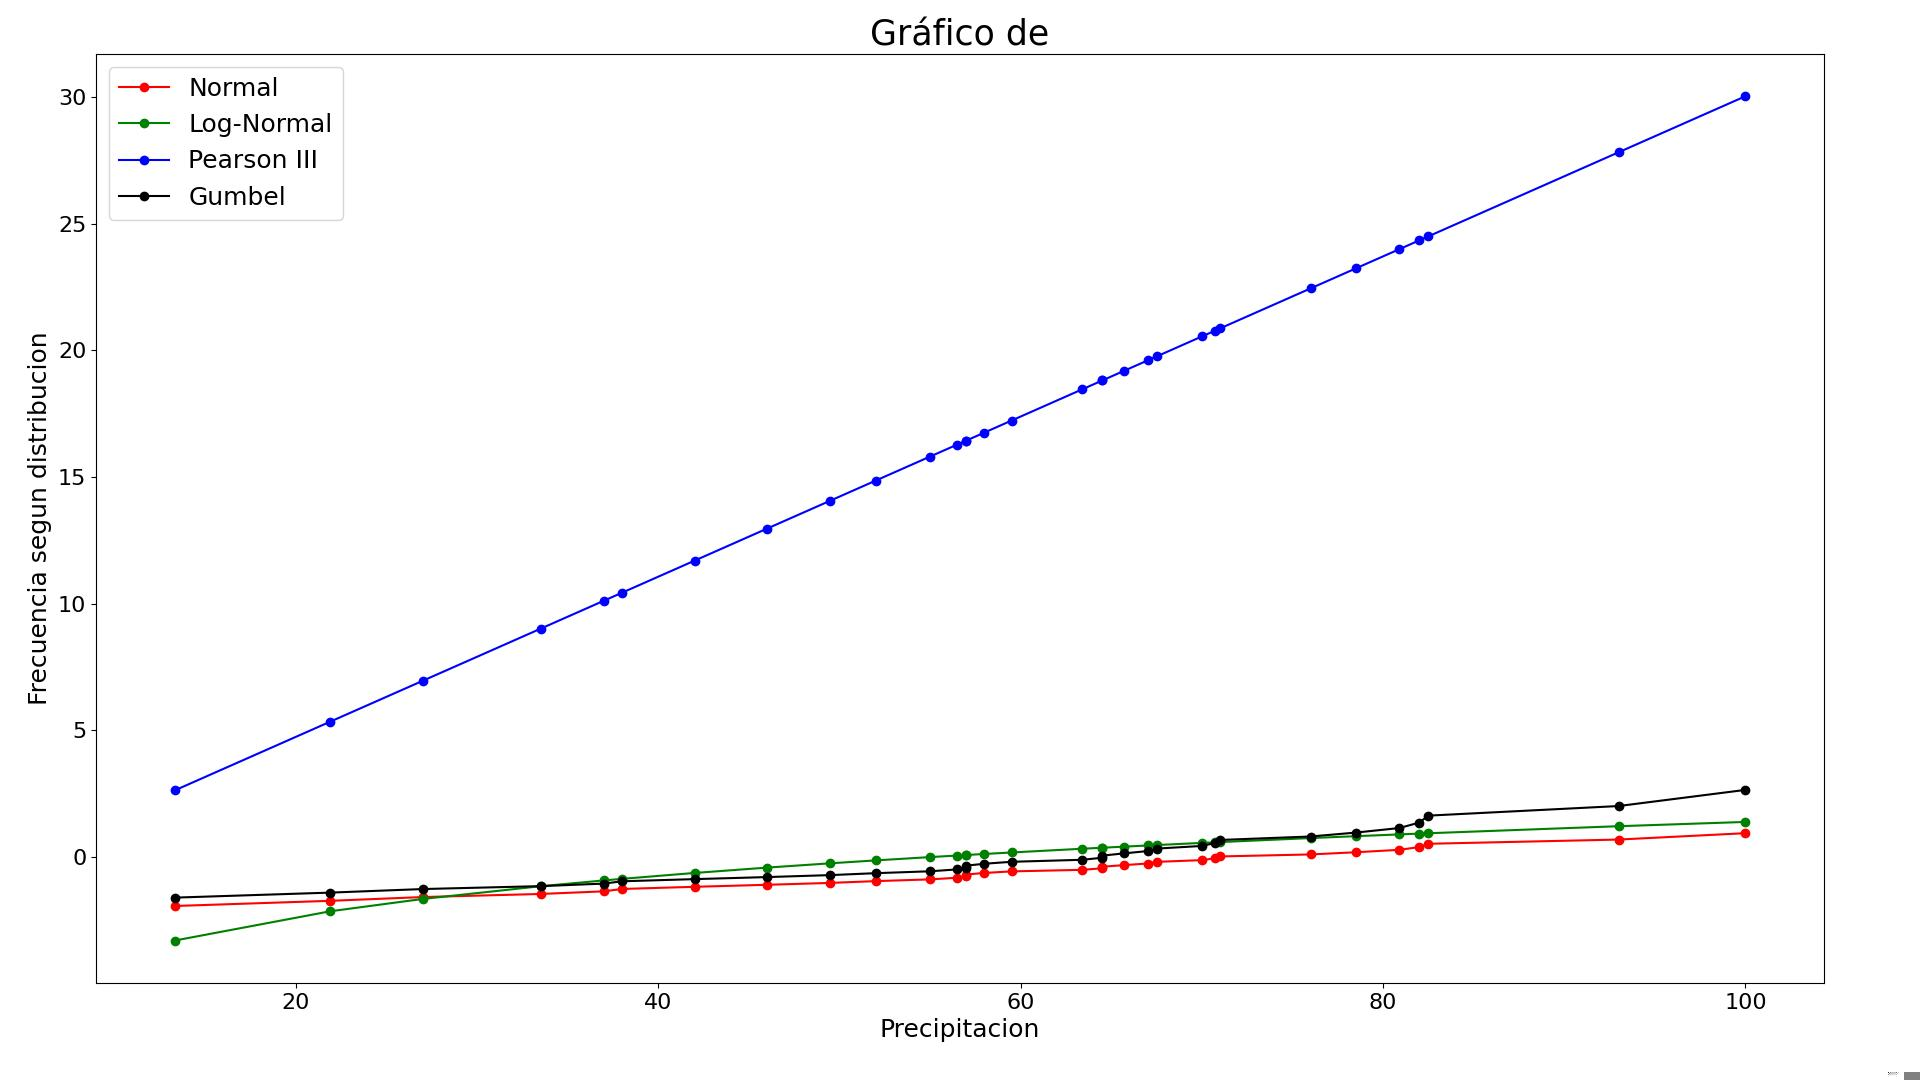
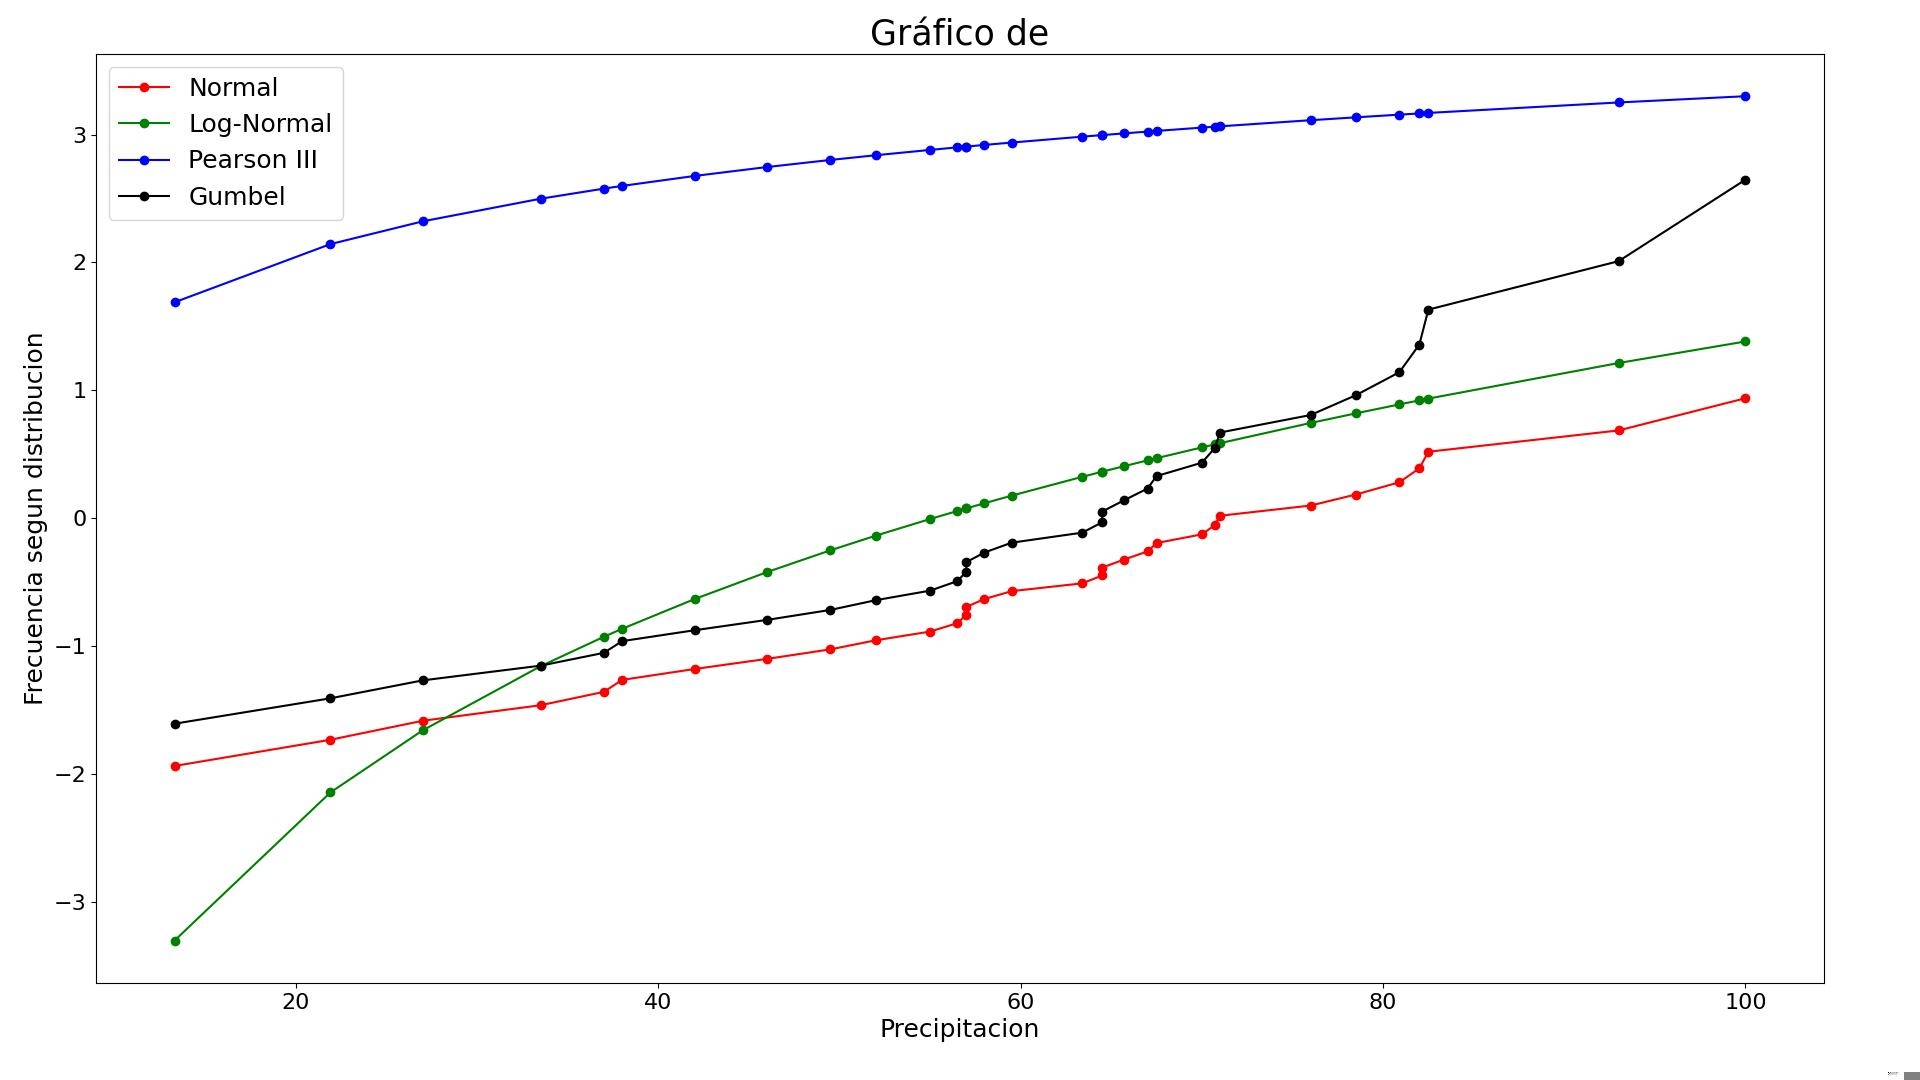
avance

diff --git a/CODIGO/PREGUNTA_2/B/kt_segun_distribucion.py b/CODIGO/PREGUNTA_2/B/kt_segun_distribucion.py
@@ -1,10 +1,14 @@
 from probabilidad_exc import df_probabilidad_exc
 import numpy as np
 
+
 #Para distribucion Normal
-media = df_probabilidad_exc['ACCESS1-0 [r1i1p1]'].mean()
-desviacion_std = df_probabilidad_exc['ACCESS1-0 [r1i1p1]'].std()
-df_probabilidad_exc['Kt Normal'] = (df_probabilidad_exc['ACCESS1-0 [r1i1p1]'] - media) / desviacion_std
+#primero debo calcular w
+w = (np.log(1/(df_probabilidad_exc['Probabilidad_Excedencia']/100)))**0.5
+#Ahora calculo el valor de z
+z = w - (2.515517 + 0.802853*w + 0.010328 * (w**2))/(1 + 1.432788 * w + 0.189269 * (w**2) + 0.001308 * (w**3))
+#Luego simplemente kt es igual a z
+df_probabilidad_exc['Kt Normal'] = z
 
 #para distribucion Log-Normal
 df_probabilidad_exc['Log de Precipitación'] = np.log(df_probabilidad_exc['ACCESS1-0 [r1i1p1]'])
@@ -15,23 +19,34 @@ df_probabilidad_exc.drop('Log de Precipitación', axis=1, inplace=True)
 
 #Para una dsitribucion Person III
 # Parámetros estimados de la distribución gamma
-alpha = 2.5  # Parámetro de forma (similares a los de una Pearson Type II)
-beta = 2     # Parámetro de escala
 
-# Calcular la media y la desviación estándar de la distribución gamma
-media = alpha * beta
-desviacion_std = np.sqrt(alpha * beta**2)
-df_probabilidad_exc['Kt Pearson III'] = (df_probabilidad_exc['ACCESS1-0 [r1i1p1]'] - media) / desviacion_std
+df_probabilidad_exc['W Pearson'] = (np.log(1/(df_probabilidad_exc['ACCESS1-0 [r1i1p1]'])**2))**0.5
+W=np.log(df_probabilidad_exc['ACCESS1-0 [r1i1p1]'])
+df_probabilidad_exc["Z Pearson"] = W - (2.516 +0.803*W+0.0103*W**2)/(1+1.432*W+0.189*W**2+0.001308*W**3)
+Z= df_probabilidad_exc["Z Pearson"]
+media= df_probabilidad_exc["ACCESS1-0 [r1i1p1]"].mean()
+desviacion_std = df_probabilidad_exc["ACCESS1-0 [r1i1p1]"].std()
+mediana = df_probabilidad_exc["ACCESS1-0 [r1i1p1]"].median()
+Cs= 3*(media -mediana)/desviacion_std
+K= Cs/6
+df_probabilidad_exc["Kt Pearson III"] = (Z +(Z**2-1)*K + (Z**3-6*Z)*(K**2)/3 - (Z**2-1)*K**3+Z*K**4+K**5/3)
+
+
+
 
 #Para una distribucion Gumbel
 mu = np.mean(df_probabilidad_exc['ACCESS1-0 [r1i1p1]'])  # Esto es una simplificación
 beta = np.std(df_probabilidad_exc['ACCESS1-0 [r1i1p1]'], ddof=1) * np.sqrt(6) / np.pi
-# Constante de Euler-Mascheroni
-gamma = 0.57721566490153286060
-# Calcular la media y la desviación estándar de la distribución de Gumbel
-media_gumbel = mu + gamma * beta
-desviacion_std_gumbel = np.pi * beta / np.sqrt(6)
+
+#Considero n = 30 años, por lo tanto
+n = 30
+yn = 0.5362
+sigman = 1.1124
+T = 1/(df_probabilidad_exc['Probabilidad_Excedencia']/100)
+yt = -np.log(-np.log((T-1)/T))
 # Calcular el coeficiente Kt para la distribución Gumbel
-df_probabilidad_exc['Kt Gumbel'] = (df_probabilidad_exc['ACCESS1-0 [r1i1p1]'] - media_gumbel) / desviacion_std_gumbel
+df_probabilidad_exc['Kt Gumbel'] = (yt - yn) / sigman
 
 df = df_probabilidad_exc
+
+

diff --git a/CODIGO/PREGUNTA_2/A/kt_segun_distribucion.py b/CODIGO/PREGUNTA_2/A/kt_segun_distribucion.py
@@ -21,7 +21,7 @@ df_probabilidad_exc.drop('Log de Precipitación', axis=1, inplace=True)
 # Parámetros estimados de la distribución gamma
 
 df_probabilidad_exc['W Pearson'] = (np.log(1/(df_probabilidad_exc['MAXIMA EN 24 HS. PRECIPITACION (mm)'])**2))**0.5
-W=df_probabilidad_exc['MAXIMA EN 24 HS. PRECIPITACION (mm)']
+W=np.log(df_probabilidad_exc['MAXIMA EN 24 HS. PRECIPITACION (mm)'])
 df_probabilidad_exc["Z Pearson"] = W - (2.516 +0.803*W+0.0103*W**2)/(1+1.432*W+0.189*W**2+0.001308*W**3)
 Z= df_probabilidad_exc["Z Pearson"]
 media= df_probabilidad_exc["MAXIMA EN 24 HS. PRECIPITACION (mm)"].mean()
@@ -29,8 +29,8 @@ desviacion_std = df_probabilidad_exc["MAXIMA EN 24 HS. PRECIPITACION (mm)"].std(
 mediana = df_probabilidad_exc["MAXIMA EN 24 HS. PRECIPITACION (mm)"].median()
 Cs= 3*(media -mediana)/desviacion_std
 K= Cs/6
-df_probabilidad_exc["Kt Pearson"] = Z +(Z**2-1)*K + (Z**3-6*Z)*(K**2)/3 - (Z**2-1)*K**3+Z*K**4+K**5/3
-print(df_probabilidad_exc["Kt Pearson"])
+df_probabilidad_exc["Kt Pearson III"] = (Z +(Z**2-1)*K + (Z**3-6*Z)*(K**2)/3 - (Z**2-1)*K**3+Z*K**4+K**5/3)
+
 
 
 
